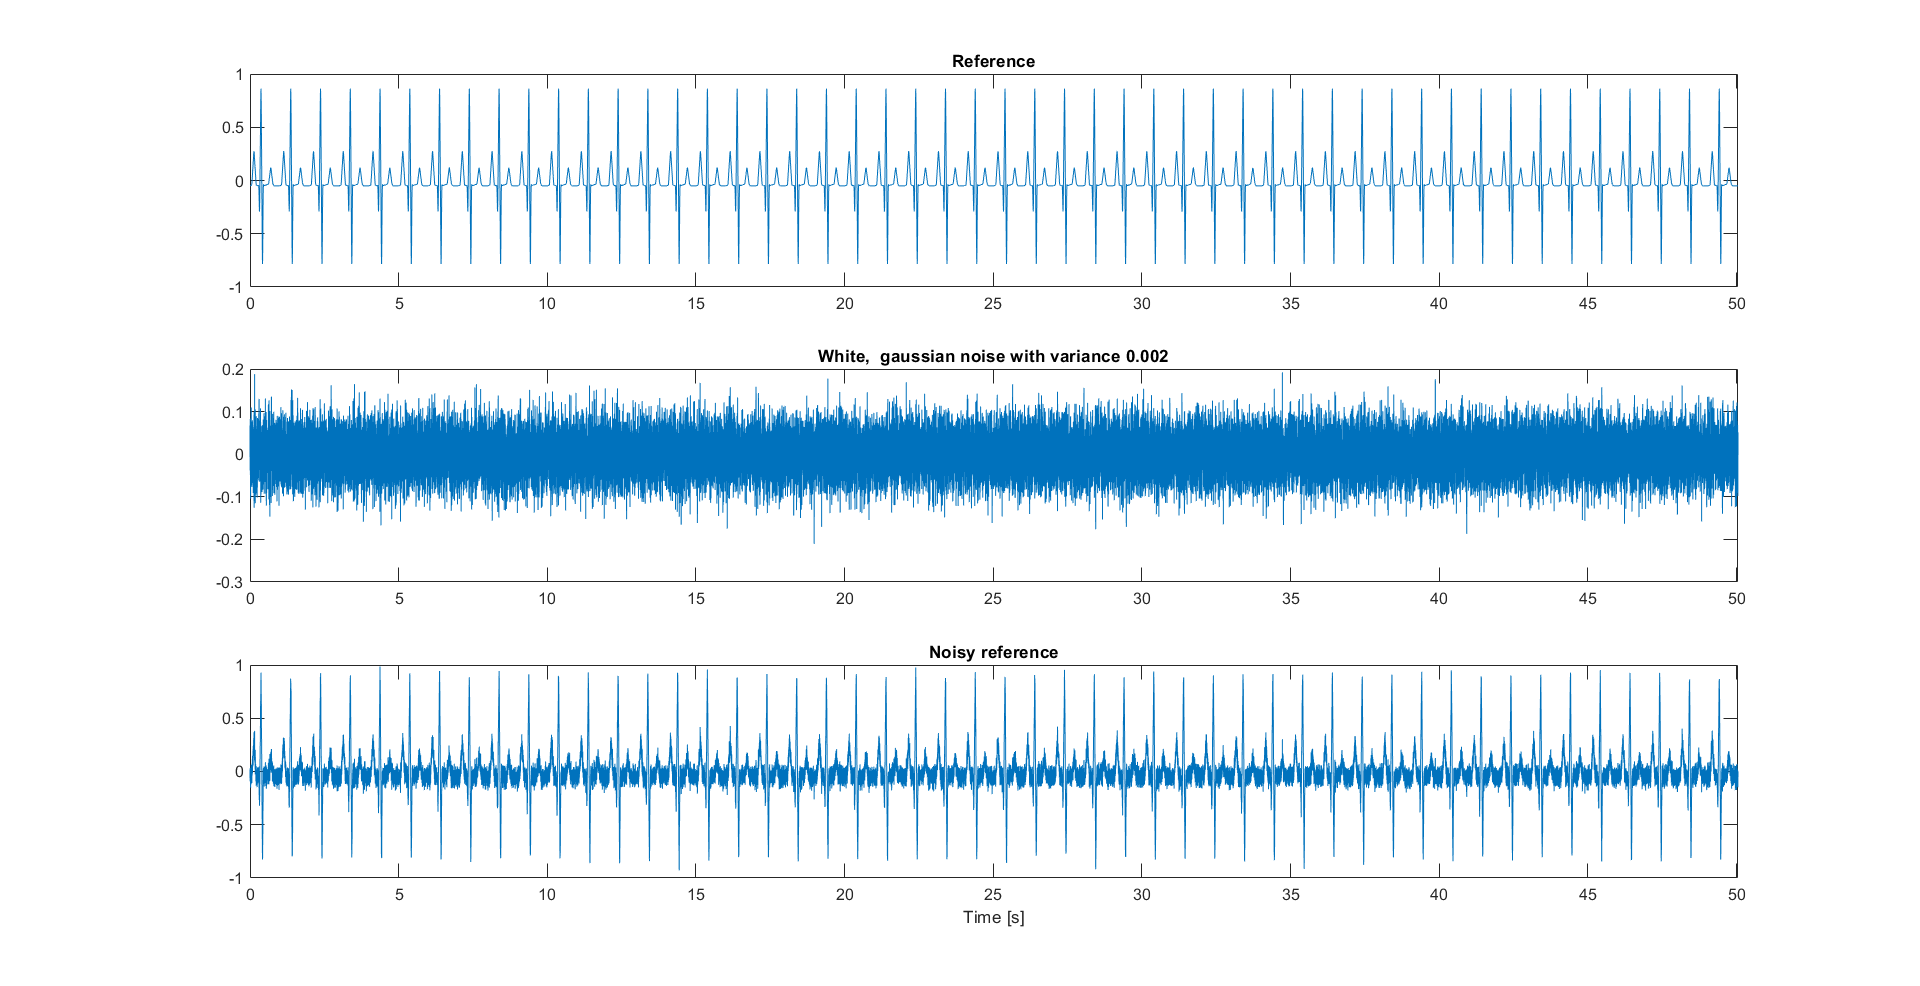
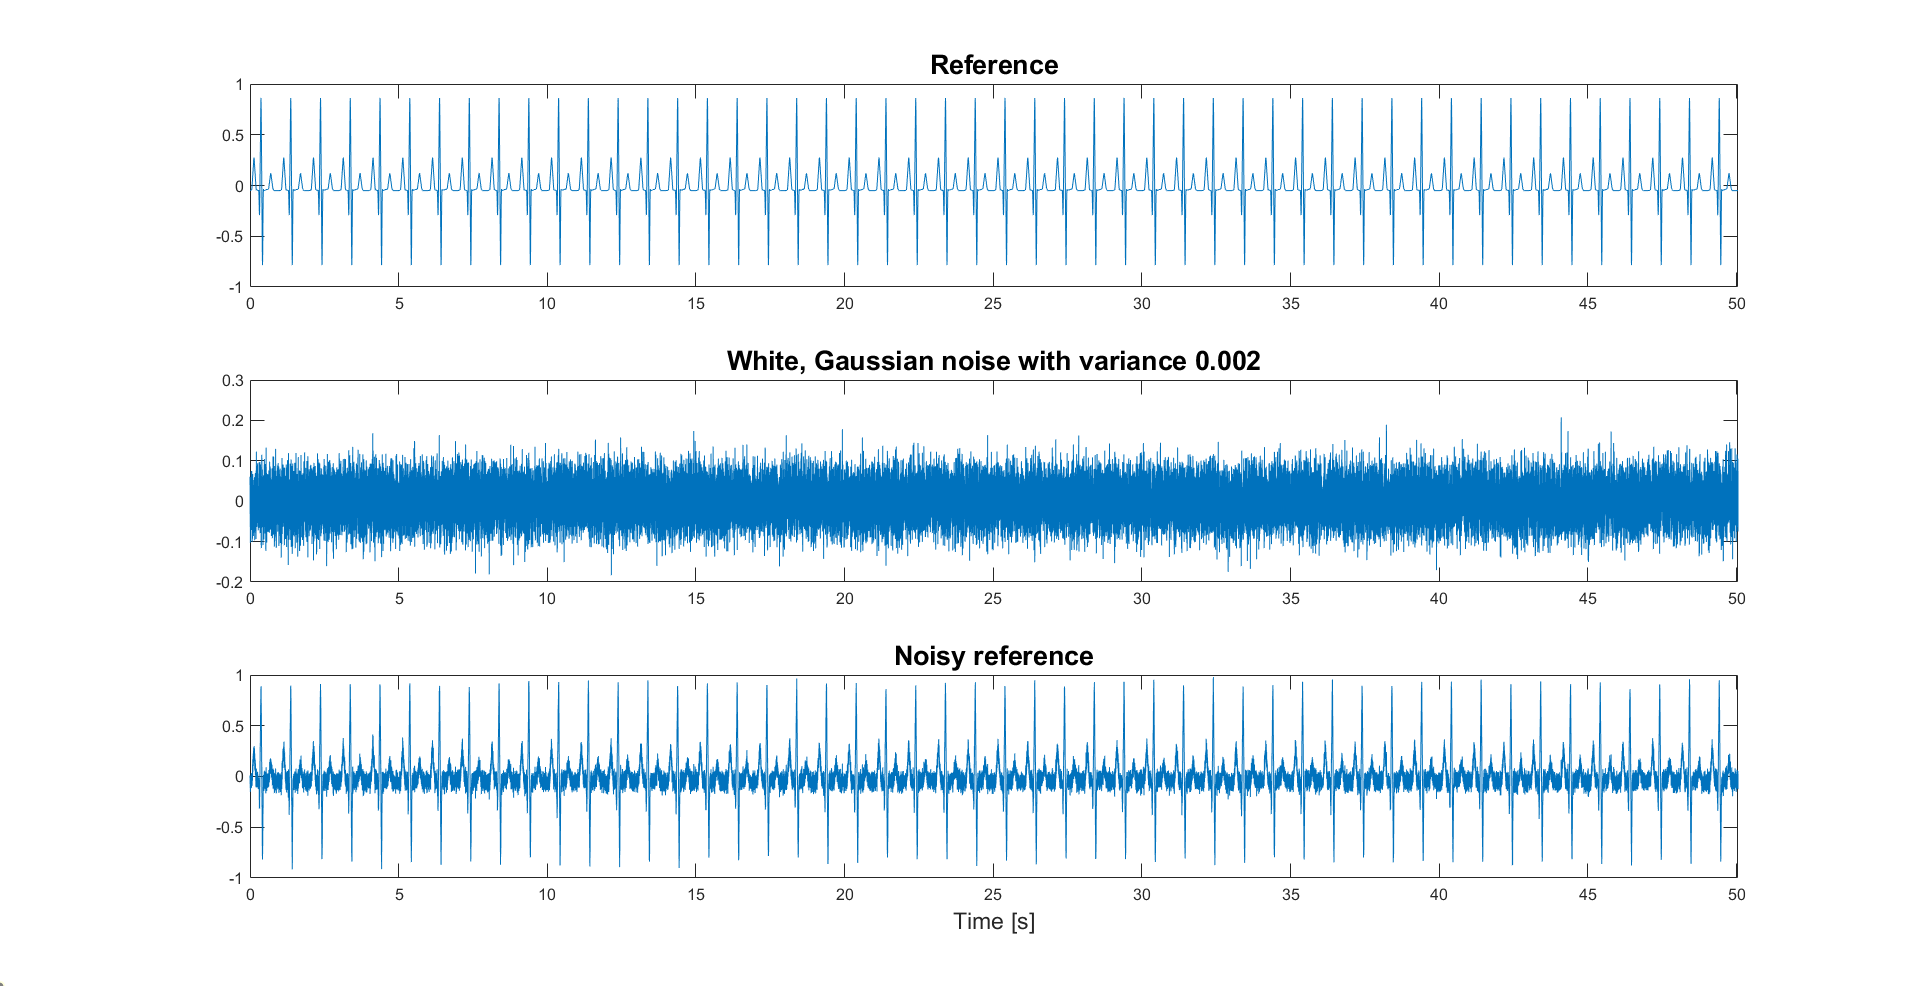
More readable figures

diff --git a/src/Spectrum_comparison_phase/show_spectrum_AVNRT_example.m b/src/Spectrum_comparison_phase/show_spectrum_AVNRT_example.m
@@ -28,7 +28,7 @@ tab_signals_DWT=[rov,ref,spare1,spare2,spare3];
 traces=["Rov trace","Ref trace","Spare1 trace","Spare2 trace","Spare3 trace"];
 Fs=2035;
 figure(1)
-sgtitle(subject_name+", record "+record_id)
+sgtitle(subject_name+", record "+record_id,"FontSize",24)
 
 for i=1:5
     x_w=tab_signals_DWT(:,i)-mean(tab_signals_DWT(:,i));
@@ -40,12 +40,12 @@ for i=1:5
     %% Results
     subplot(3,2,i)
     hold on
-    plot(t,x_w,'LineWidth',1)
+    plot(t,x_w,'LineWidth',1.2)
   
     hold off
-    ylabel('Amplitude [mV]')
-    xlabel('t [s]')
-    title(traces(i))
+    ylabel('Amplitude [mV]',"FontSize",14)
+    xlabel('t [s]',"FontSize",14)
+    title(traces(i),"FontSize",16)
     xlim([0, 1])
     hold on
 
@@ -53,7 +53,7 @@ end
 
 
 figure(2)
-sgtitle("Power spectrum estimation: "+subject_name+", record "+record_id)
+sgtitle("Power spectrum estimation: "+subject_name+", record "+record_id,"FontSize",24)
 
 for i=1:5
     x_w=tab_signals_DWT(:,i)-mean(tab_signals_DWT(:,i));
@@ -80,15 +80,16 @@ for i=1:5
     %% Results
     subplot(3,2,i)
     hold on
-    plot(f_S,S,'Color',[0.4940 0.1840 0.5560],'LineWidth',0.5)
-    plot(f, pxx,'Color',[0 0.4470 0.7410],'LineWidth',0.5)
+    plot(f_S,S,'Color',[0.7 0.4 0.7],'LineWidth',1.2)
+    plot(f, pxx,'Color',[0 0.4470 0.7410],'LineWidth',1.2)
     hold off
-    ylabel('PSD')
-    xlabel('f [Hz]')
-    title(traces(i))
+    ylabel('PSD','FontSize',14)
+    xlabel('f [Hz]',"FontSize",14)
+    title(traces(i),"FontSize",16)
     xlim([0, 300])
-    legend( 'P_{S}','P_{W}')
+    legend('P_{S}','P_{W}',"FontSize",14)
     hold on
+
 
 end
 

diff --git a/src/Spectrum_comparison_phase/show_spectrum_evaluation_pipeline.m b/src/Spectrum_comparison_phase/show_spectrum_evaluation_pipeline.m
@@ -26,7 +26,7 @@ load("D:\Desktop\ANDREA\Universita\Magistrale\Anno Accademico 2023-2024\TESI\Tes
 % end
 % ECG parameters
 Fs = 1000;           % F sampling(Hz)
-step=1000;
+step=2000;
 duration = 1;        % Duration (s)
 t = 0:1/Fs:duration; 
 
@@ -149,22 +149,22 @@ for i = step:step:N_original
 
     %% Results
     figure(1)
-    sgtitle("Power spectrum estimation on synthetic data: "+noise_title)
+    sgtitle("Power spectrum estimation on synthetic data: "+noise_title,"FontSize",24)
     subplot(n_rows, n_cols, i/step)
     hold on
-    plot(f_S,S,'Color',[0.4940 0.1840 0.5560],'LineWidth',0.5)
-    plot(f, pxx,'Color',[0 0.4470 0.7410],'LineWidth',0.5)
+    plot(f_S, S, 'Color', [0.7 0.4 0.7], 'LineWidth', 1.2)
+    plot(f, pxx,'Color',[0 0.4470 0.7410],'LineWidth',1.2)
     % 
     % plot(f_DSP, DSP,'Color',[0.4940 0.1840 0.5560],'LineWidth',1.5)
     % plot(f_BU, DSP_BU,'Color',[0 0.4470 0.7410],'LineWidth',1.5)
     hold off
-    ylabel('PSD')
-    xlabel('f [Hz]')
+    ylabel('PSD','FontSize',14)
+    xlabel('f [Hz]',"FontSize",14) 
     % title("N: " + num2str(N) + ", p_{AR}(LS)=" + num2str(p)+", p_{AR}(BU)="+num2str(p_bu))
-    title("N points: " + num2str(N))
-    xlim([0, 120])
+    title("N points: " + num2str(N),"FontSize",16)
+    xlim([0, 50])
     % legend( 'Welch','FFT','AR LS estimation','AR Burg estimation')
-    legend('P_{S}','P_{W}')
+    legend('P_{S}','P_{W}',"FontSize",14)
 end
 
 % %% Different order comparison

diff --git a/main_preprocessing.m b/main_preprocessing.m
@@ -75,7 +75,7 @@ addpath(src_path)
 % thresholding plus digital filter. These method will be evaluated using
 % didactical examples.
 close;clc;close all; % cleaning environment
-show_filter_pipeline_syntetic("white_noise_stationary_var_fix")
+show_filter_pipeline_syntetic("baseline_drift")
 
 % Other example of situations: 
 %baseline_drift white_noise_stationary_var_fix
@@ -147,9 +147,9 @@ processed_data_path="D:\Desktop\ANDREA\Universita\Magistrale\Anno Accademico 202
 load(processed_data_path+'\dataset_2.mat');
 
 %%
-subject_data=final_data_by_sub.MAP_B.MAP_B8;
-record_id=1;
-subject_name="Effective example: subject 9";
+subject_data=final_data_by_sub.MAP_A.MAP_A4;
+record_id=5;
+subject_name="Indifferent example, subject 4";
 
 show_spectrum_AVNRT_example(subject_data,subject_name,record_id)
 

diff --git a/src/Spectrum_comparison_phase/show_filter_pipeline_syntetic.m b/src/Spectrum_comparison_phase/show_filter_pipeline_syntetic.m
@@ -58,16 +58,16 @@ figure(1)
 subplot(311)
 plot(t, ecg_signal)
 xlim([0, t(end)])
-title('Reference')
+title('Reference',"FontSize",16)
 subplot(312)
 plot(t, noise)
 xlim([0, t(end)])
-title(noise_title)
+title(noise_title,"FontSize",16)
 subplot(313)
 plot(t, noisy_ecg)
 xlim([0, t(end)])
-title('Noisy reference')
-xlabel('Time [s]')
+title('Noisy reference',"FontSize",16)
+xlabel('Time [s]',"FontSize",14)
 
 %% Starting of simulation
 N_original = length(noisy_ecg);
